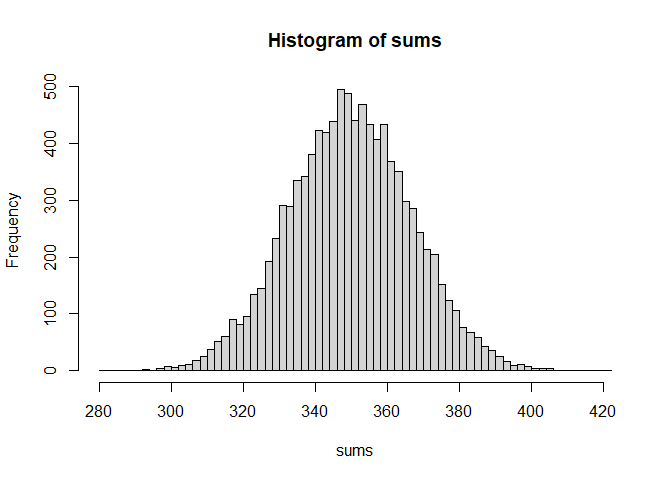
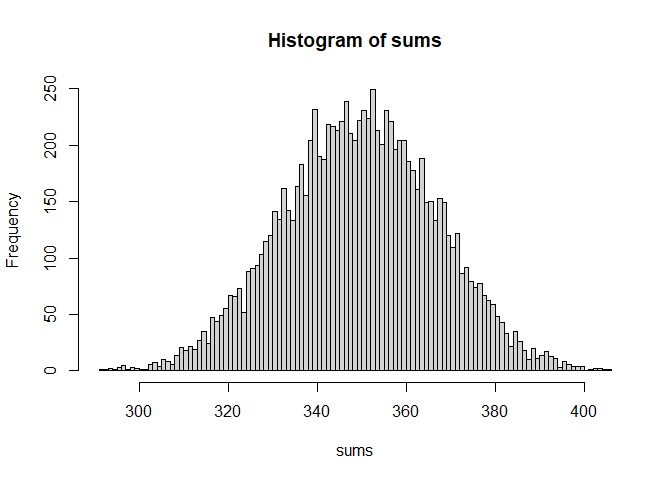
fixed spelling error

diff --git a/Final-Reflection2.md b/Final-Reflection2.md
@@ -77,7 +77,7 @@ with. However, I like to keep how I have changed data stored under
 different names because then if I need to go back to the original data I
 can with no hassle. So, for this data set there were 103 variables and
 we only needed 6 of them. So, I went created a second data set named
-birht2 because it was from the original birth data, but it was the
+birth2 because it was from the original birth data, but it was the
 second version of this. This way I need to get information from the
 first data set I can still go back to it. We also only wanted a select
 number of years because we weren’t not interested in the years before
@@ -237,9 +237,9 @@ experiments in the future.
 sample(1:6, 100, replace = TRUE)
 ```
 
-    ##   [1] 5 6 4 3 4 3 1 4 4 6 1 1 2 6 1 3 6 4 2 4 1 3 3 3 6 5 4 6 3 3 6 3 4 4 1 5 2
-    ##  [38] 2 6 2 5 5 5 6 3 5 4 5 5 4 5 2 2 3 2 2 5 4 2 5 6 3 3 4 6 4 5 3 1 1 4 5 6 3
-    ##  [75] 1 4 2 1 4 1 2 2 2 4 5 3 6 2 3 4 1 1 2 2 6 1 3 6 6 3
+    ##   [1] 6 4 5 1 2 2 2 2 3 2 6 6 3 3 3 6 6 3 1 1 1 1 6 5 5 4 1 1 4 3 4 2 2 3 3 5 3
+    ##  [38] 3 2 3 3 6 5 2 5 6 1 4 2 3 5 4 1 5 2 5 3 5 5 4 1 3 3 4 3 5 5 5 3 3 1 4 2 2
+    ##  [75] 2 2 3 6 1 2 3 2 2 5 2 4 2 3 4 6 6 1 1 3 3 4 6 3 1 1
 
 ``` r
 #function so I can choose how many times the dice rolls
@@ -247,16 +247,16 @@ rolldie = function(n) sample(1:6, n, replace = TRUE)
 rolldie(100)
 ```
 
-    ##   [1] 3 3 6 6 5 2 6 3 4 3 3 1 5 4 2 4 5 4 6 5 6 6 3 4 5 6 2 3 1 3 2 6 2 2 4 2 1
-    ##  [38] 4 4 4 6 1 4 2 5 1 3 5 2 6 6 4 6 2 1 5 1 5 1 6 1 2 4 2 3 4 3 6 5 2 5 2 6 4
-    ##  [75] 1 4 1 5 1 6 6 6 4 6 4 1 6 5 4 1 1 6 6 3 4 5 1 4 2 3
+    ##   [1] 2 5 3 6 3 1 6 3 3 2 3 4 6 3 2 4 2 4 2 1 3 2 1 3 6 3 6 5 1 3 3 6 5 1 2 2 5
+    ##  [38] 5 4 3 2 4 3 4 2 2 3 6 3 2 5 4 1 4 6 2 3 1 3 3 2 4 4 5 2 4 3 3 5 2 4 1 3 5
+    ##  [75] 3 2 2 3 4 4 4 4 2 4 4 1 2 3 4 1 1 4 4 2 1 4 4 5 6 3
 
 ``` r
 #get the sum of the rolls
 sum(rolldie(100))
 ```
 
-    ## [1] 355
+    ## [1] 344
 
 ``` r
 #for loop to roll the die 10000 times
@@ -268,9 +268,9 @@ for (i in 1:10000) {
 sums[1:40]
 ```
 
-    ##  [1] 353 329 383 329 343 345 342 362 366 376 358 356 348 348 357 355 304 386 361
-    ## [20] 345 349 346 369 343 349 358 346 330 354 321 347 347 309 348 361 360 325 325
-    ## [39] 356 343
+    ##  [1] 346 367 330 348 369 332 391 336 364 323 344 318 365 346 353 345 331 370 321
+    ## [20] 372 349 341 331 331 343 339 343 371 358 382 328 341 340 358 347 364 317 368
+    ## [39] 331 354
 
 ``` r
 #making a histogram of the sums of the 1000 rolls
@@ -284,13 +284,13 @@ hist(sums, breaks = 100)
 sums[sums < 300]
 ```
 
-    ##  [1] 293 297 296 298 280 299 293 297 299 289 299 288 297 299 292
+    ##  [1] 295 297 297 297 298 299 291 296 299 297 294 294 296 293 296 297 299
 
 ``` r
 length(sums[sums < 300])
 ```
 
-    ## [1] 15
+    ## [1] 17
 
 ``` r
 17/10000
@@ -303,13 +303,13 @@ length(sums[sums < 300])
 sums[sums > 400]
 ```
 
-    ##  [1] 405 421 404 413 405 401 411 405 408 418 401 401 403 403 405 401 403
+    ## [1] 406 402 404 404 405 403 403
 
 ``` r
 length(sums[sums > 400])
 ```
 
-    ## [1] 17
+    ## [1] 7
 
 ``` r
 14/10000
